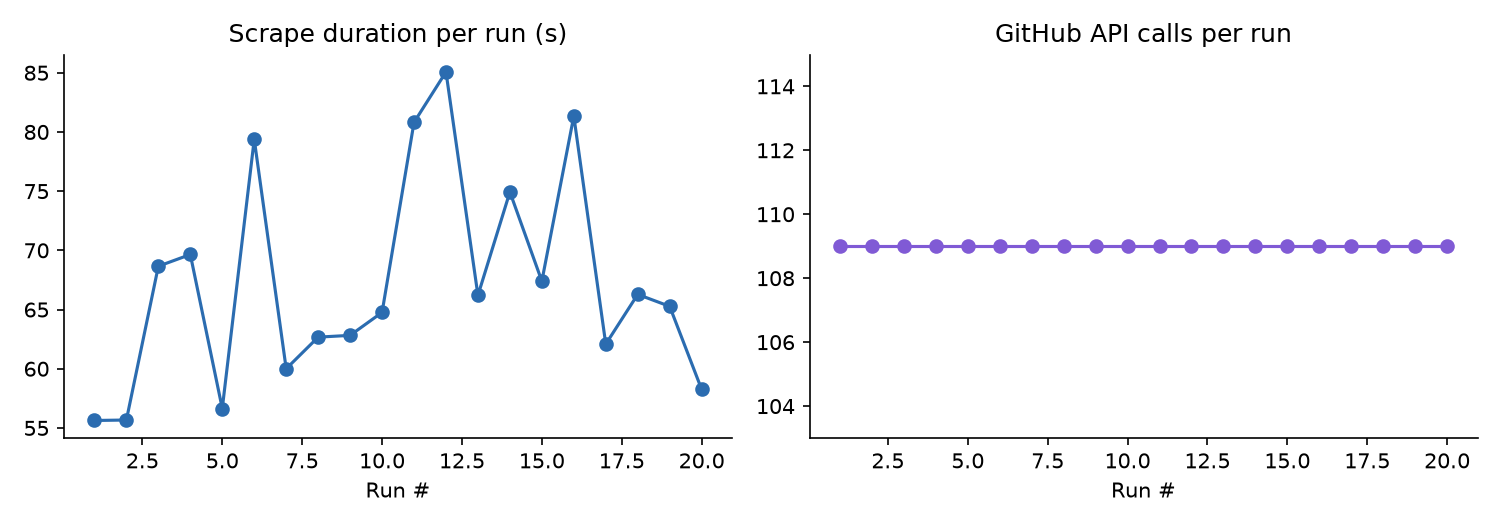
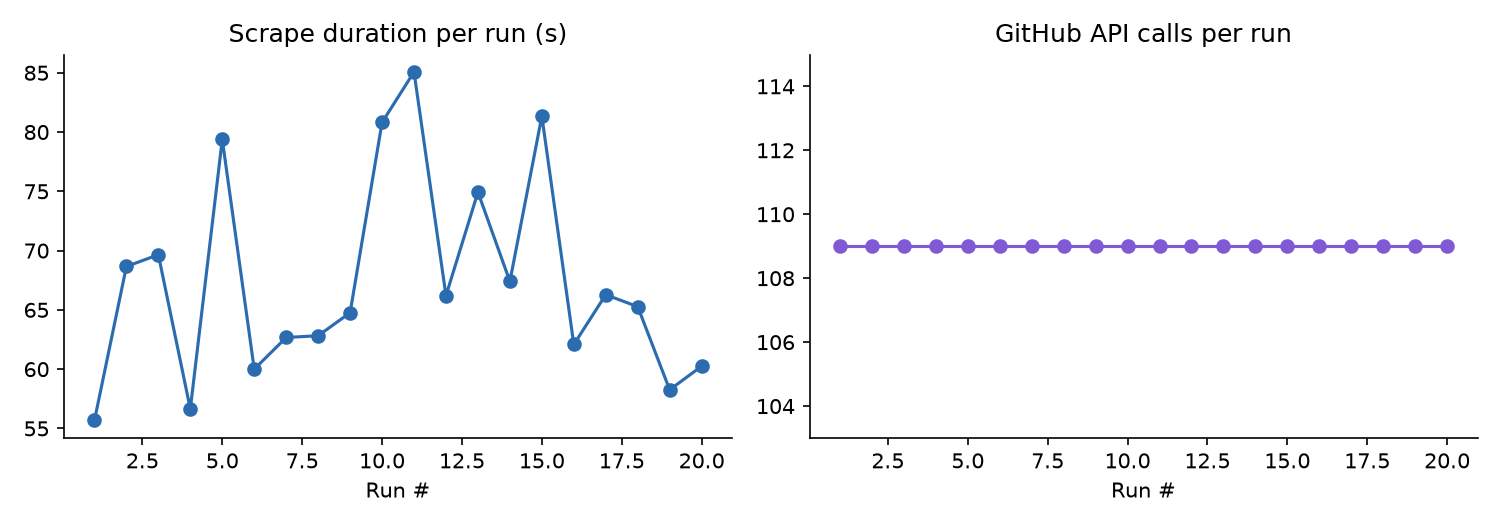
Weekly issue tracker refresh

diff --git a/README.md b/README.md
@@ -81,7 +81,7 @@ See [CONTRIBUTING.md](CONTRIBUTING.md) for the full contributor workflow — inc
 
 <!-- TRACKER:START -->
 
-_Last updated: 2026-08-10 21:30 UTC_
+_Last updated: 2026-08-10 22:08 UTC_
 
 _Tracking **18** upstream repos, **379** relevant open issues._
 
@@ -289,7 +289,7 @@ _Tracking **18** upstream repos, **379** relevant open issues._
 
 <!-- METRICS:START -->
 
-_Last run: 2026-08-10 21:29 UTC, took **58.3s**, **109** GitHub API calls, **4782/5000** rate limit remaining._
+_Last run: 2026-08-10 22:07 UTC, took **60.3s**, **109** GitHub API calls, **4891/5000** rate limit remaining._
 
 ![Scrape metrics trend](assets/metrics_trend.png)
 
